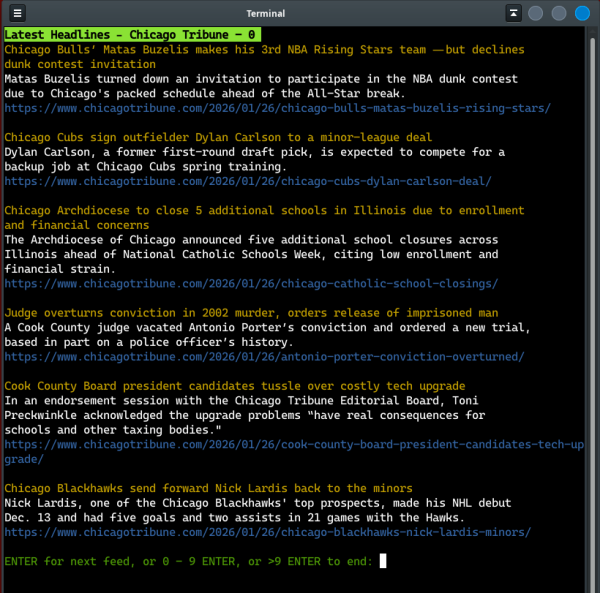
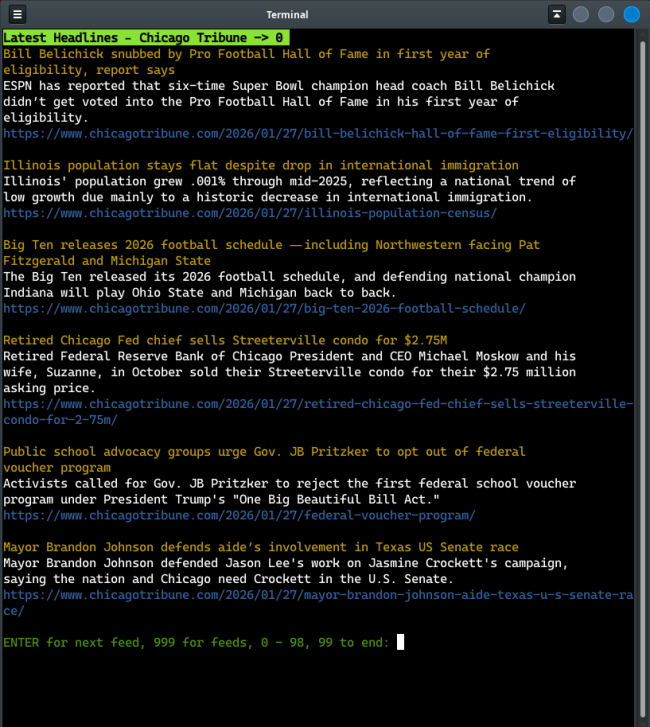
ok

diff --git a/nkiosk.py b/nkiosk.py
@@ -10,49 +10,72 @@ import requests, textwrap
 
 List  = open("nkiosk.lst").readlines()  # read in the URLs from file
 nurls = [i.strip() for i in List]
-
-nfeeds = len(nurls)  # number of xml urls in nurls list
 inx    = 0
 nfeeds = len(nurls)  # number of xml urls in nurls list
 nitems = 6  # max number of news items to print
 wdesc  = 80  # width of description text for console
 
+
+def display_urls():
+    ''' Print the contents of nkiosk.lst '''
+    os.system("clear")
+    for i, v in enumerate(nurls):
+        print(f"{i:02d}: {v}")
+
+def prompt() -> int:
+    ''' Get user input for navigation '''
+    global inx, nfeeds
+    while True:
+        cprint("ENTER for next feed, 999 for feeds, 0 - 98, 99 to end: ", 'green', end="")
+        stat = input().strip()
+        if stat == "":
+            inx += 1
+            if inx == nfeeds:
+                inx = 0
+            return inx
+
+        try:
+            sub = int(stat)
+        except ValueError:
+            continue  # ignore non-numeric input
+
+        if sub == 999:
+            display_urls()
+            continue  # go back to the prompt
+
+        if sub == 99:
+            exit(0)  # quit program
+
+        #print(f"sub: {sub} nfeeds: {nfeeds}")
+        if sub >= 0 and sub <= nfeeds:
+            return sub
+        else:
+            continue
+
 while True:
-#   print(nurls[inx])
-  r = requests.get(nurls[inx], timeout=15)
-  xx = " - " + str(inx) + " "
-  inx += 1
-  if inx == nfeeds:
-    inx = 0
+    r = requests.get(nurls[inx], timeout=15)
+    xx = " -> " + str(inx) + " "
 
-  data = r.text
-#   print(data)
-  soup = BeautifulSoup(data, "xml")
+    data = r.text
+    soup = BeautifulSoup(data, "xml")  # ready to parse rss
 
-  os.system('clear')
-  obj = soup.find('title')
-  cprint(obj.getText() + xx, 'green', attrs=['bold', 'reverse'])
+    os.system('clear')
+    obj = soup.find('title')
+    cprint(obj.getText() + xx, 'green', attrs=['bold', 'reverse'])
 
-  item = soup.find_all('item')
+    item = soup.find_all('item')
 
-  for i in range(0, min(nitems, len(item))):
-    ttl = item[i].find('title').getText()
-    shoup = BeautifulSoup(ttl, "lxml")
-    s = textwrap.fill(shoup.getText(), wdesc)
-    cprint(s, 'yellow')
-    # Descriptions
-    desc = item[i].find('description').getText()
-    shoup = BeautifulSoup(desc, "lxml")
-    s = shoup.getText()
-    print(textwrap.fill(s,wdesc))
-    cprint(item[i].find('link').getText(), 'blue')
-    print()
+    for i in range(0, min(nitems, len(item))):
+        ttl = item[i].find('title').getText()
+        shoup = BeautifulSoup(ttl, "lxml")
+        s = textwrap.fill(shoup.getText(), wdesc)
+        cprint(s, 'yellow')
+        # Descriptions
+        desc = item[i].find('description').getText()
+        shoup = BeautifulSoup(desc, "lxml")
+        s = shoup.getText()
+        print(textwrap.fill(s,wdesc))
+        cprint(item[i].find('link').getText(), 'blue')
+        print()
 
-  cprint("ENTER for next feed, or 0 - 9 ENTER, or >9 ENTER to end: ", 'green', end="")
-  stat = input()
-  if stat.strip() != "":
-      sub = int(stat.strip())
-      if sub >=1 and sub <=9:
-          inx = sub
-      else:
-          exit(0)
+    inx = prompt()

diff --git a/README.md b/README.md
@@ -1,8 +1,7 @@
 # NKiosk RSS Viewer
-### Runs in Terminal 
-
-
 **Headlines at your fingertips**
+
+### Runs in Terminal 
 
 Consists of two files: `nkiosk.py` and `nkiosk.lst`
 
@@ -29,7 +28,7 @@ Suggested usage:
 
 ---
 
-> RSS urls stored in separate text file `nkiosk.lst`
+> RSS feed urls stored in separate text file `nkiosk.lst`
 
 >>
     https://www.chicagotribune.com/latest-headlines/feed/
@@ -43,10 +42,24 @@ Suggested usage:
     http://rss.nytimes.com/services/xml/rss/nyt/US.xml
     https://news.google.com/rss?hl=en-US&gl=US&ceid=US:en
 
+>You may have from 1 to 98 RSS urls. Store them in the `nkiosk.lst` text file, one line per URL.
 
 ---
-inspired by the book:
 
+### Navigation
+
+At the bottom of each page you are prompted for input.  
+
+When you hit:
+
+    ENTER   advances to next rss feed  
+    0 - 98  goes to that feed in your list
+    99      ends program
+    999     prints out your feeds from the `nkiosk.lst` file
+    
+---
+
+inspired by the book:  
 *Automate the Boring Stuff with Python*  
 By Al Sweigart
 	
